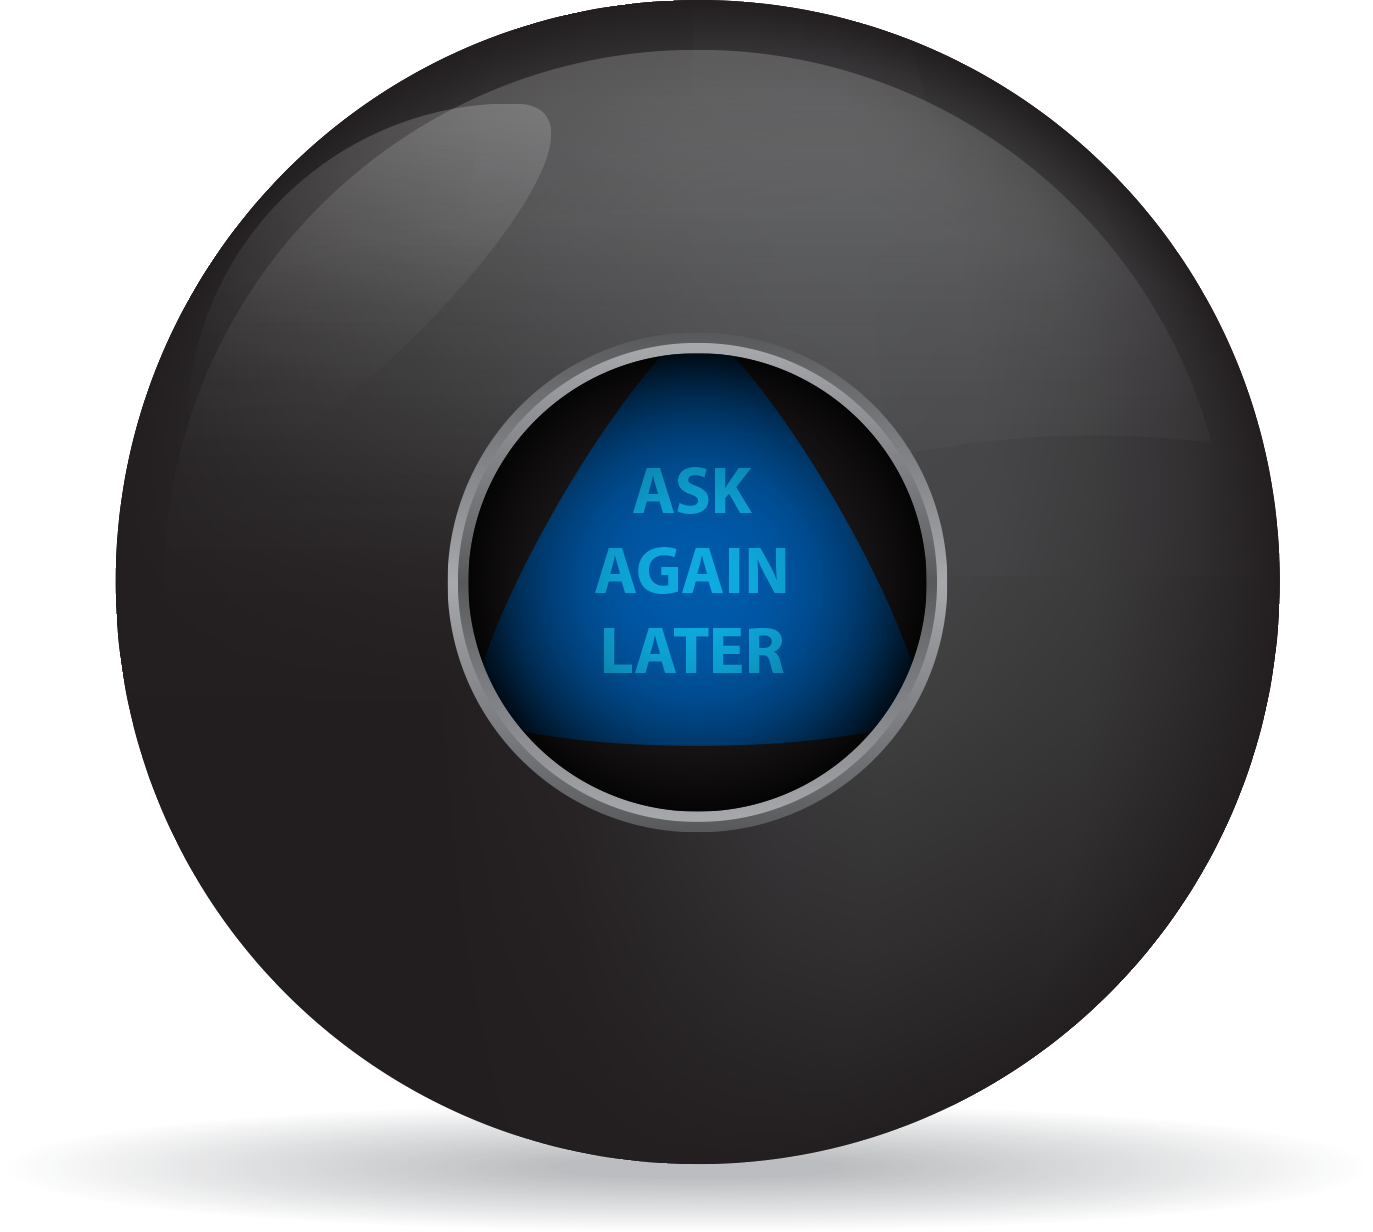
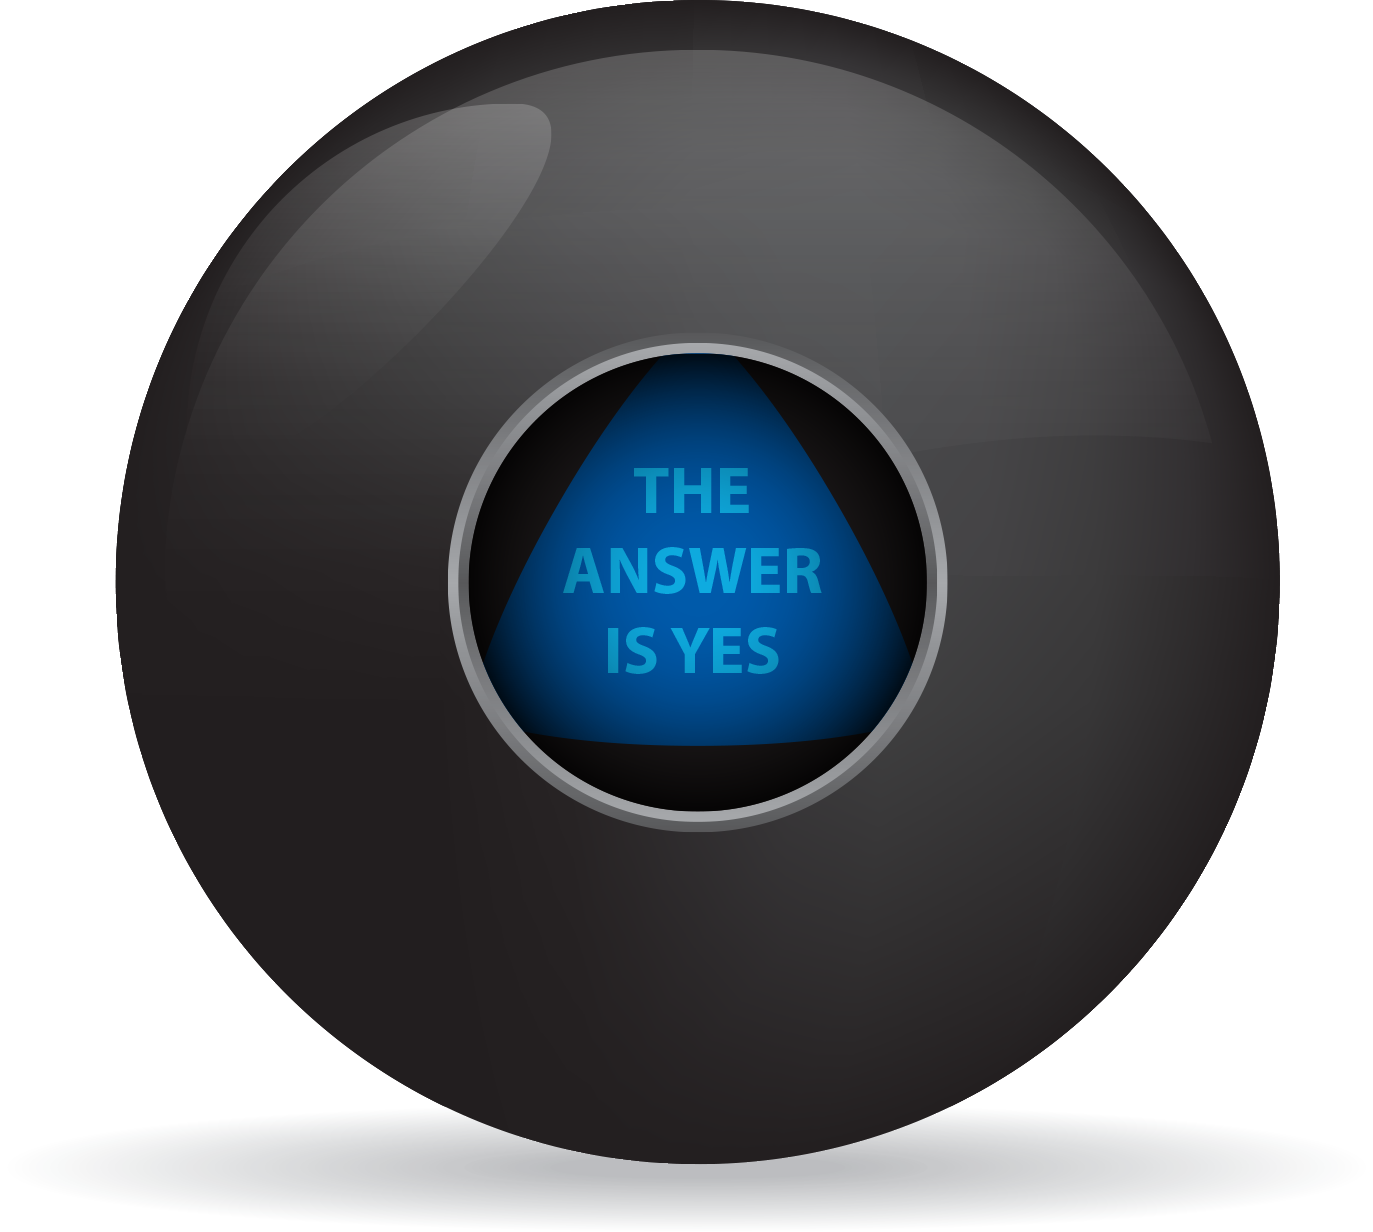
Magic Ball 8 - Finish

Changed region(s): [[0.3977, 0.3701, 0.6118, 0.5552]]

diff --git a/lib/main.dart b/lib/main.dart
@@ -1,7 +1,44 @@
 import 'package:flutter/material.dart';
+import 'dart:math';
 
-void main() => runApp(
-      MaterialApp(
-        home: null,
+void main() => runApp(MaterialApp(
+      home: BallPage(),
+    ));
+
+class BallPage extends StatelessWidget {
+  @override
+  Widget build(BuildContext context) {
+    return MaterialApp(
+      home: Scaffold(
+          backgroundColor: Colors.blue[500],
+          appBar: AppBar(
+            title: Text('Ask Me Anything!'),
+            backgroundColor: Colors.blue[800],
+          ),
+          body: BallState()),
+    );
+  }
+}
+
+class BallState extends StatefulWidget {
+  @override
+  _BallState createState() => _BallState();
+}
+
+class _BallState extends State<BallState> {
+  var ballNumber = 0;
+
+  @override
+  Widget build(BuildContext context) {
+    return Center(
+      child: FlatButton(
+        onPressed: () {
+          setState(() {
+            ballNumber = Random().nextInt(4) + 1;
+          });
+        },
+        child: Image.asset('images/ball$ballNumber.png'),
       ),
     );
+  }
+}
